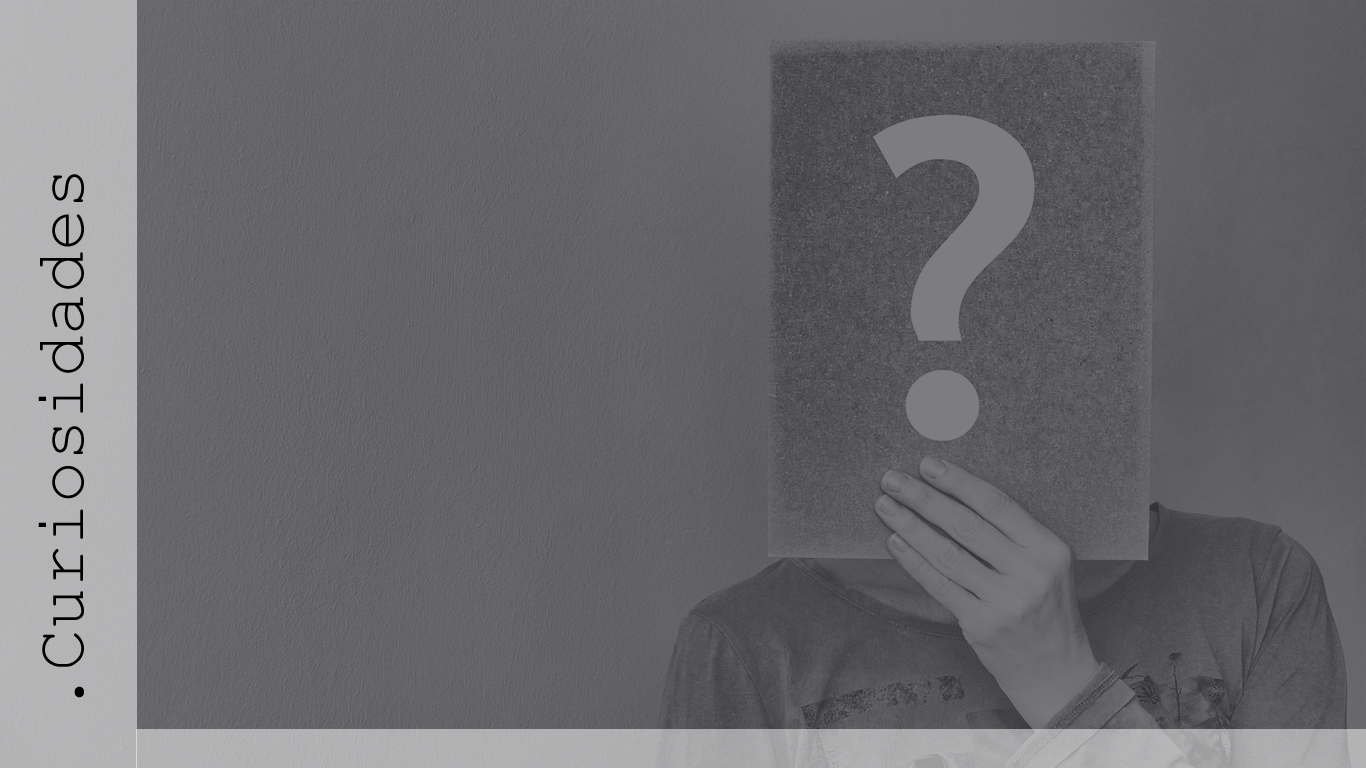
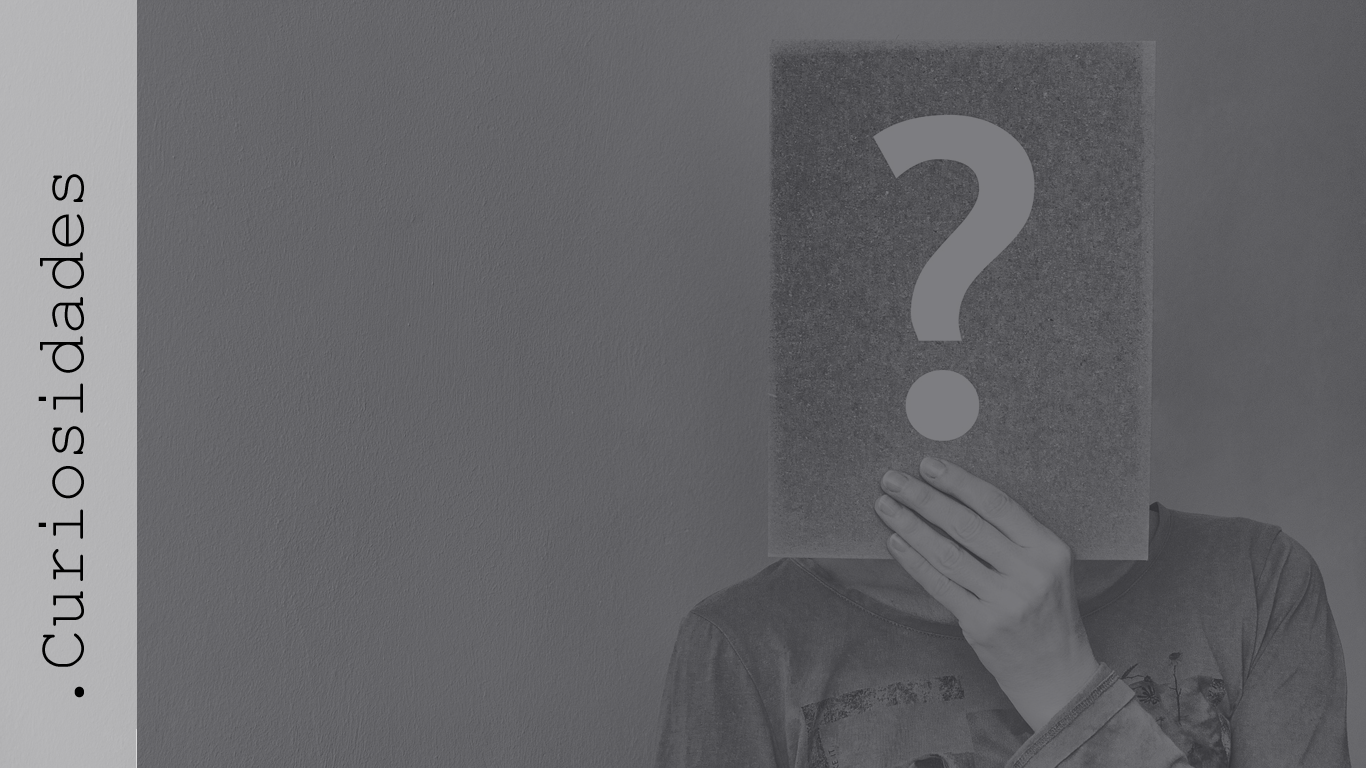
2

Changed region(s): [[0.0922, 0.9375, 1.0, 1.0]]

diff --git a/css/main.css b/css/main.css
@@ -106,7 +106,8 @@ a.contatos
 
 #social /*svgs social*/
 {
-    width: 8%;
+    padding: 2px;
+    max-width: 30px;
     margin-right: 10px;
 }
 
@@ -188,9 +189,13 @@ a.contatos
 
 .rodape
 {
+    text-align: center;
+    width: 90%;
     position: absolute;
-    bottom: 0.5%;
-    left: 55%;
+    bottom: 0px;
+    background: #FFFFFF;
+    opacity: 0.6;
+    margin-left: 10%;
 }
 
 /* Estilo de texto e fontes */
